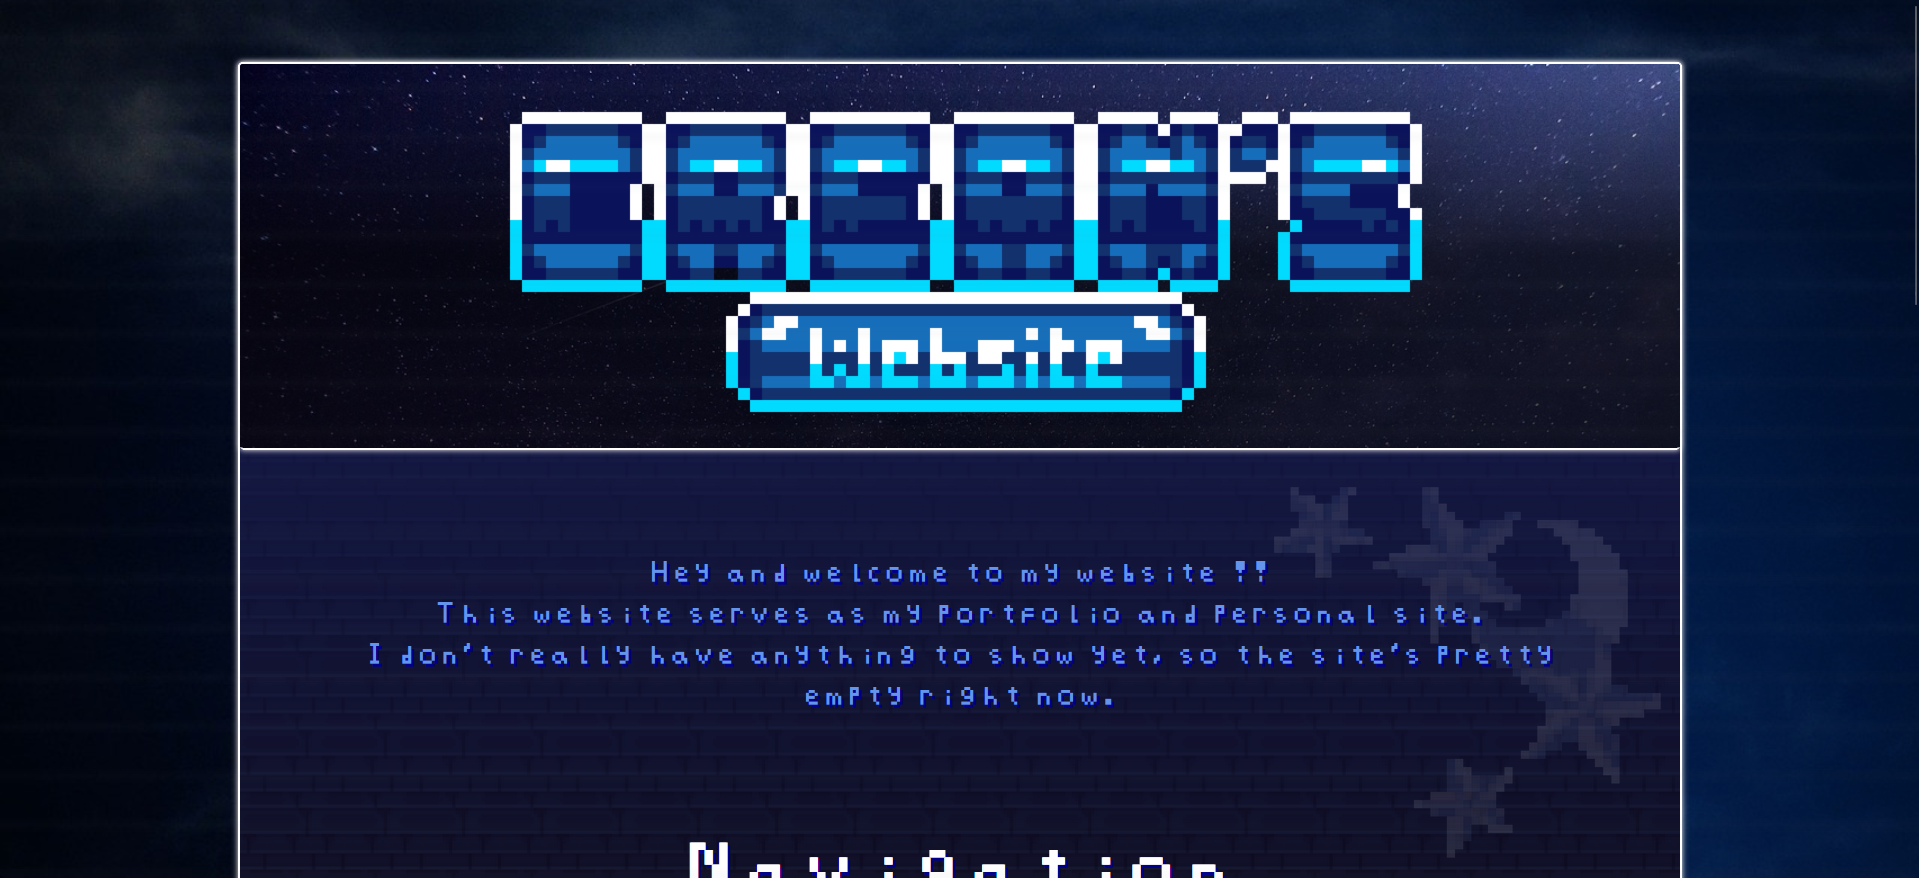
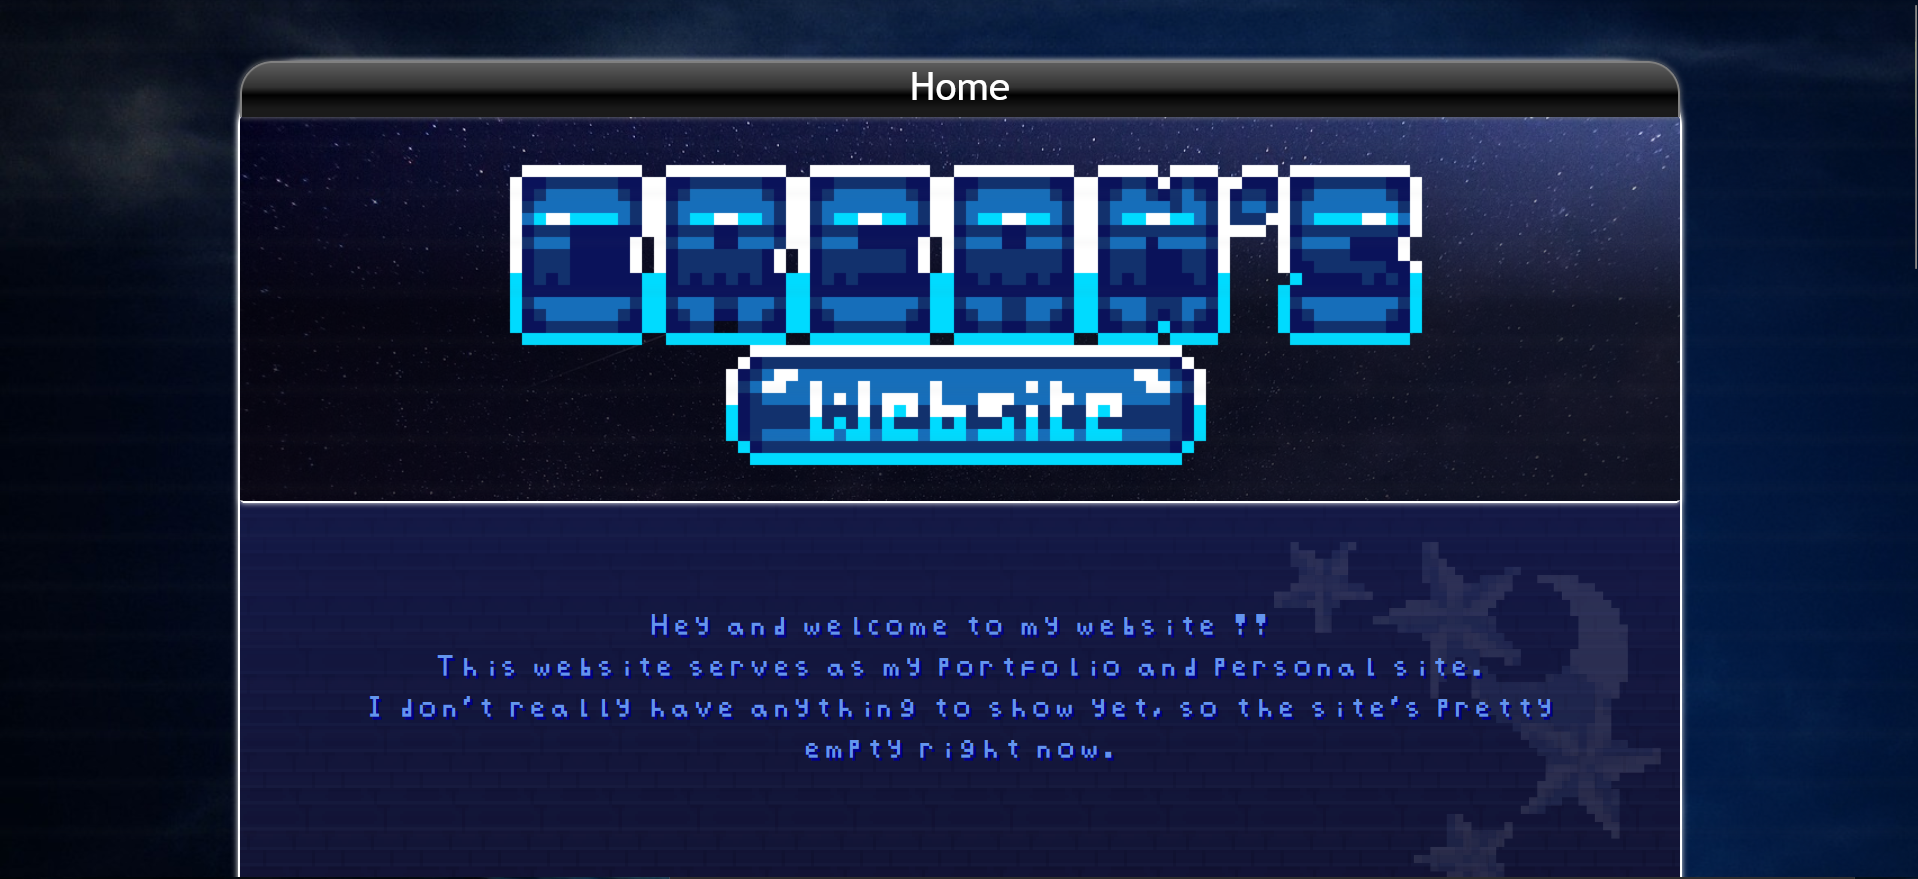
more navigation links

diff --git a/Code/Main.html b/Code/Main.html
@@ -47,20 +47,21 @@
             box-shadow: 0px 0px 4px gray;
             border: 2px gray ridge;
             border-radius: 4px;
-            margin-bottom: 100px;
+            margin-bottom: 20px;
 		}
         .HomeMess {
             border: 2px white solid;
             box-shadow: 0 0 4px white;
+            border-width: 0px 2px 2px;
 			
 			display: inline-block;
-			border-radius: 2.5px;
+			border-radius: 50px 50px 2.5px 2.5px;
 			font-size: 30px;
 
             width: 75vw;
             background-image: url('../Assets/Rose.png'), url('../Assets/Stars.png'), linear-gradient(#161e5a, #15112c00 75%), url('../Assets/BG02.png');
             background-repeat: no-repeat, no-repeat, no-repeat, repeat;
-            background-position: left bottom, right 20vw, 0px 0px, 0px 0px;
+            background-position: left bottom, right 50vh, 0px 0px, 0px 0px;
             background-size: 240px, 320px, 100%, 60px;
         }
         h2 {
@@ -73,6 +74,10 @@
         <br>
 
         <div class="HomeMess">
+            <div class="Top" style="top: 0px;">
+                Home
+            </div>
+
             <div class="Window2" style="background-image: linear-gradient(rgba(0, 0, 0, 0), rgba(0, 0, 0, 0.695) 50%), url('../Assets/BG05.png'); width: 75vw; height: 20vw; border-width: 0px 0px 2px; background-size: cover;">
                 <img src="../Assets/Logo.png" style="height: 20vw;">
             </div>
@@ -99,6 +104,20 @@
     
                     <a href="Misc.html" class="Links" style="margin-top: 50%;">
                         <img src="../Assets/Misc.png" class="LinkButton">
+                    </a>
+                </div>
+
+                <div class="NavigationField" style="margin-bottom: 150px;">
+                    <a href="https://www.youtube.com/@Creanbl" class="Links" style="margin-top: 50%;">
+                        <img src="../Assets/YoutubeLogo.png" class="LinkButton">
+                    </a>
+        
+                    <a href="https://steamcommunity.com/id/Creanbl/" class="Links" style="margin-top: 50%;">
+                        <img src="../Assets/SteamLogo.png" class="LinkButton">
+                    </a>
+        
+                    <a href="https://github.com/creaamblob" class="Links" style="margin-top: 50%;">
+                        <img src="../Assets/GithubLogo.png" class="LinkButton">
                     </a>
                 </div>
             </p>

diff --git a/Code/Blogs.html b/Code/Blogs.html
@@ -71,12 +71,12 @@
 
         </div>
 
-        <br><br><br>
+        <br>
         <div class="Window" style="width: 87,5vw; height: 900px; padding: 10px 0px 0px;
         box-shadow: 0px 0px 4px gray;
         border: 2px gray solid;
         border-width: 0px 2px 0px;">
-            <div class="Top">
+            <div class="Top" style="font-size: 20px; padding: 0px 160px 0px;">
                 Catalogue of my articles that I've written.<br>
                 Contains tutorials, news and other stuff.
             </div class="Top">

diff --git a/Code/Info.html b/Code/Info.html
@@ -86,7 +86,7 @@
                 -⚝ Nationality: <font style="color: teal">Finnish</font><br>
                 -⚝ Cursed With: <font style="color: indianred">ASD and ADHD</font><br>
                 -⚝ Favourite Colour: <font style="color: deepskyblue;">Deep Sky Blue</font><br>
-                <img src="../Assets/Flags.png" style="image-rendering: pixelated; opacity: 12.5%;">
+                <img src="../Assets/Flags.png" style="image-rendering: pixelated; opacity: 50%;">
 
                 <br><br>
 

diff --git a/Code/style.css b/Code/style.css
@@ -98,6 +98,9 @@ p {
     .WindowContainer {
         display: none;
     }
+    .Top {
+        display: none;
+    }
 }
 
 .CRT {
@@ -140,11 +143,6 @@ p {
     transform: scale(1.5);
     background-color: rgba(255, 255, 255, 0.404);
     box-shadow: 0 0 4px white;
-}
-@media screen and (max-width: 1100px) {
-    linktab {
-        display: none;
-    }
 }
 input {
     cursor: url('../Assets/Cursor.png') 11 8, auto;

diff --git a/README.md b/README.md
@@ -1,5 +1,5 @@
 My personal website, doesn't really have anything for the time being
-![Screenshot 2025-08-09 141526](https://github.com/user-attachments/assets/cc29eae1-25c5-4e1e-863d-45a7604315ce)
+<img width="1918" height="879" alt="Preview" src="https://github.com/user-attachments/assets/4eb918e5-b7f2-4b4d-a746-8213e0d426bf" />
 
 URL:
 https://creaamblob.github.io/Creanbl.github.io
